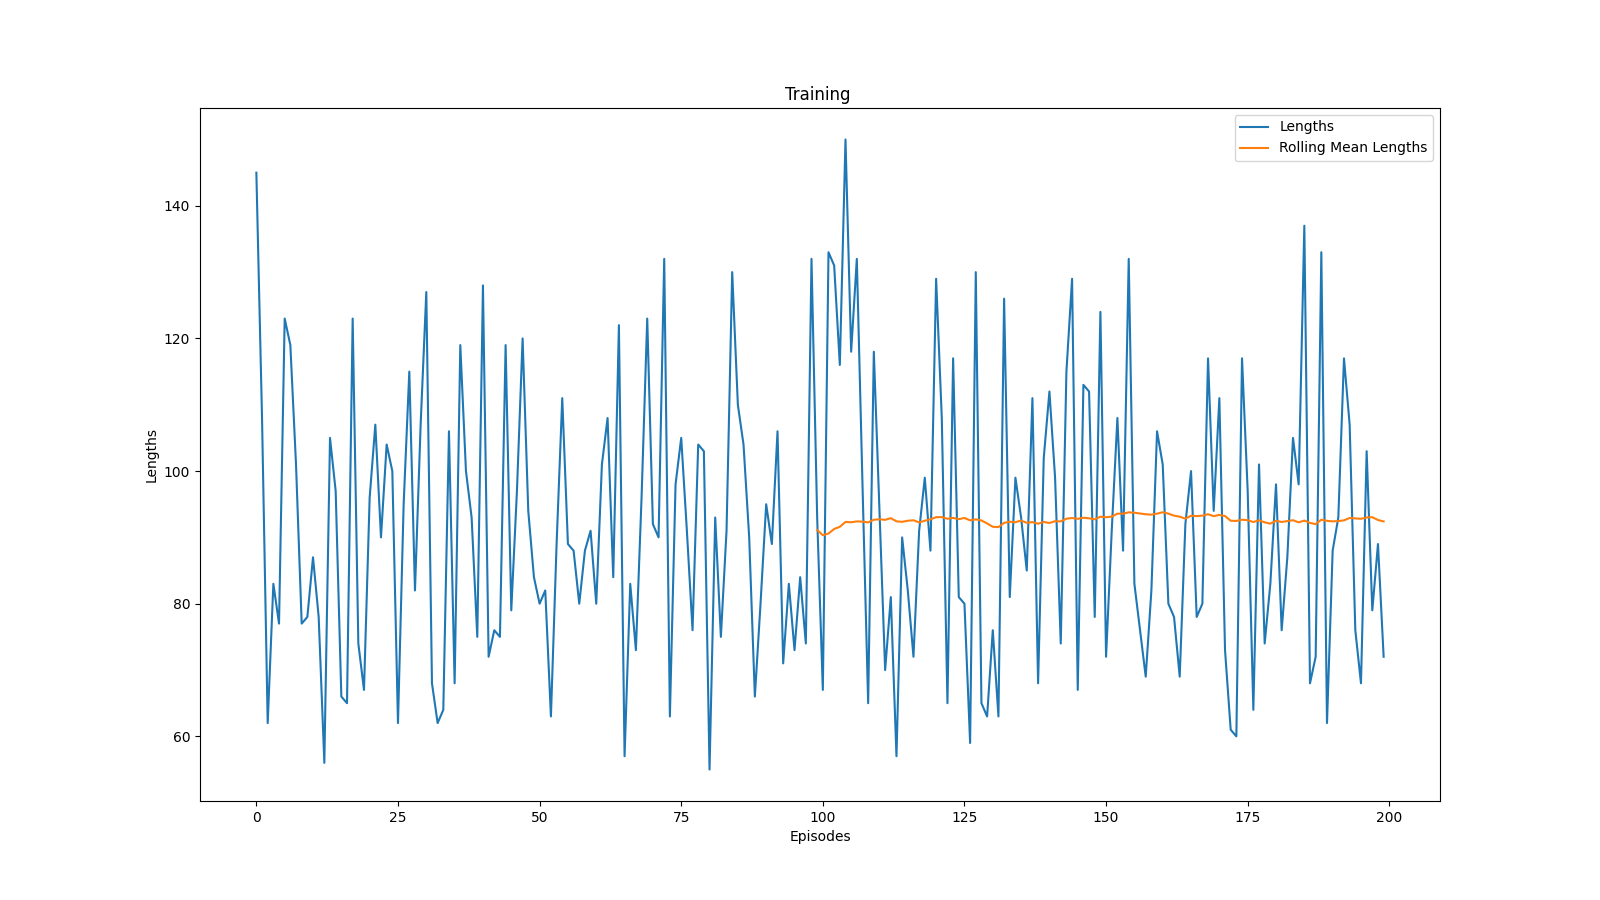
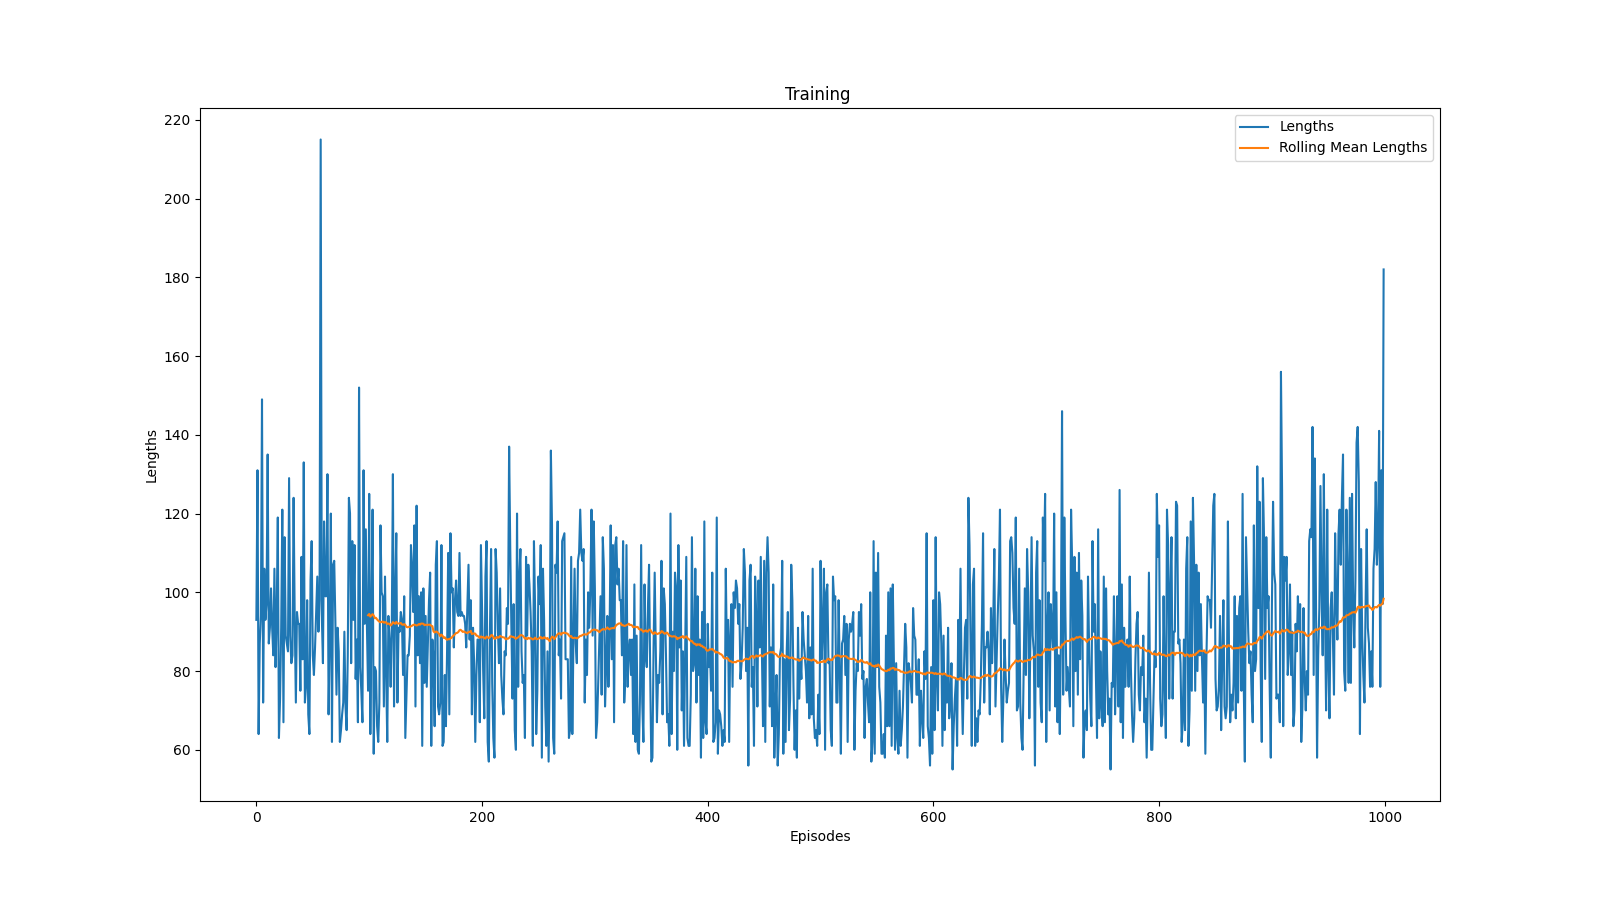
added version requirements + optimized inputs + rewards + lengths fix

diff --git a/src/trainer/reinforce_trainer.py b/src/trainer/reinforce_trainer.py
@@ -1,9 +1,12 @@
-from trainer import Trainer
-from agent import PolicyAgent
-from config import device, checkpoint_path, video_record_period, visualizer_path, update_interval, save_interval
-from tqdm.auto import tqdm
-import torch
 import gymnasium as gym
+import torch
+from tqdm.auto import tqdm
+
+from agent import PolicyAgent
+from config import (device, checkpoint_path,
+                    video_record_period, visualizer_path,
+                    update_interval, save_interval)
+from trainer import Trainer
 
 
 class REINFORCETrainer(Trainer):
@@ -31,9 +34,10 @@ class REINFORCETrainer(Trainer):
 
 
     def train(self):
-        
         returns = torch.empty(0, dtype=torch.float64, device=device)
         log_probs = torch.empty(0, dtype=torch.float64, device=device)
+        total_rewards = []
+        total_lengths = []
         for episode in tqdm(range(self.n_episodes)):
             state, _ = self.env.reset()
             rewards = []
@@ -63,6 +67,8 @@ class REINFORCETrainer(Trainer):
                 returns = torch.empty(0, dtype=torch.float64, device=device)
                 log_probs = torch.empty(0, dtype=torch.float64, device=device)
 
+            total_rewards.append(self.env.return_queue[-1])
+            total_lengths.append(self.env.length_queue[-1])
             if (episode + 1) % self.info_frequency == 0:
                 print(f'Episode {episode}, Total Reward: {sum(rewards):.2f}')
 
@@ -75,7 +81,7 @@ class REINFORCETrainer(Trainer):
 
         last_policy = self.agent.policy.state_dict()
         self.env.close()
-        return last_policy, self.env.return_queue, self.env.length_queue
+        return last_policy, total_rewards, total_lengths
 
 
     def calculate_loss(self, returns, log_probs):

diff --git a/src/trainer/basic.py b/src/trainer/basic.py
@@ -1,8 +1,11 @@
-from agent import Agent
 from abc import ABC, abstractmethod
-from gymnasium.wrappers import RecordEpisodeStatistics, RecordVideo
+
 import gymnasium as gym
+from gymnasium.wrappers import RecordEpisodeStatistics, RecordVideo
+
+from agent import Agent
 from config import visualizer_path, video_record_period
+
 
 class Trainer(ABC):
     def __init__(
@@ -17,7 +20,7 @@ class Trainer(ABC):
         self.agent = agent
         self.env=RecordVideo(env=env, video_folder=video_path + "/video_training",
                              episode_trigger=lambda x: x % record_period == 0)
-        self.env=RecordEpisodeStatistics(self.env, buffer_length=n_episodes)
+        self.env=RecordEpisodeStatistics(self.env)
         self.n_episodes = n_episodes
         self.discount_factor = discount_factor
 

diff --git a/src/visualizer/basic.py b/src/visualizer/basic.py
@@ -1,16 +1,15 @@
-from agent import PolicyAgent
-from evaluator import Evaluator
-from config import device, visualizer_path
-
-import matplotlib.pyplot as plt
-import matplotlib.animation
 import gymnasium as gym
-import torch
+import matplotlib.patheffects as path_effects
+import matplotlib.pyplot as plt
 import numpy as np
 import seaborn as sns
-import matplotlib.patheffects as path_effects
+from gymnasium.wrappers import RecordVideo
+
+from agent import PolicyAgent
 from config import rolling_window
-from gymnasium.wrappers import RecordEpisodeStatistics, RecordVideo
+from config import visualizer_path
+from evaluator import Evaluator
+
 
 def get_moving_avgs(arr, window, convolution_mode):
     return np.convolve(

diff --git a/src/main.py b/src/main.py
@@ -1,14 +1,14 @@
 import gymnasium as gym
 import torch.optim
 
-from policy import FCPolicy
 from agent import PolicyAgent
-from trainer import REINFORCETrainer
-from visualizer import Visualizer
 from config import (device, hidden_size, learning_rate,
                     n_episodes, discount_factor, info_frequency,
                     evaluation_time, visualizer_path,
                     video_record_period, checkpoint_path)
+from policy import FCPolicy
+from trainer import REINFORCETrainer
+from visualizer import Visualizer
 
 if __name__ == "__main__":
     env = gym.make("LunarLander-v3", render_mode="rgb_array")

diff --git a/src/stability_test.py b/src/stability_test.py
@@ -1,16 +1,18 @@
+import os
+
 import gymnasium as gym
 import matplotlib.pyplot as plt
 import seaborn as sns
 import torch.optim
-import os
-from evaluator import Evaluator
-from policy import FCPolicy
+
 from agent import PolicyAgent
-from trainer import REINFORCETrainer
-from visualizer import Visualizer
 from config import (device, hidden_size, learning_rate,
                     discount_factor, info_frequency,
                     evaluation_time)
+from evaluator import Evaluator
+from policy import FCPolicy
+from trainer import REINFORCETrainer
+from visualizer import Visualizer
 
 medians = []
 runs = 2

diff --git a/src/config.py b/src/config.py
@@ -6,10 +6,10 @@ visualizer_path = "../results/img"
 video_record_period=100
 hidden_size = 128
 learning_rate = 0.001
-n_episodes = 200
+n_episodes = 1000
 discount_factor = 0.99
 info_frequency = 100
 rolling_window = 100
 evaluation_time = 20
-update_interval = 1
-save_interval = 10000
+update_interval = 4
+save_interval = 100

diff --git a/src/evaluator/evaluator.py b/src/evaluator/evaluator.py
@@ -1,9 +1,11 @@
 import gymnasium as gym
-from agent import Agent
-from tqdm.auto import tqdm
-import torch
 import numpy as np
+import torch
+from tqdm.auto import tqdm
+
+from agent import Agent
 from config import device
+
 
 class Evaluator:
     def __init__(self,

diff --git a/src/policy/policy.py b/src/policy/policy.py
@@ -1,8 +1,9 @@
-from policy import Policy
-
 import torch.nn as nn
 import torch.nn.functional as F
 from torch.distributions import Categorical
+
+from policy import Policy
+
 
 class FCPolicy(Policy):
     def __init__(self, input_size, hidden_size, output_size):

diff --git a/src/setup.py b/src/setup.py
@@ -1,6 +1,8 @@
 import io
 import re
+
 from setuptools import setup, find_packages
+
 
 def read(file_path):
     with io.open(file_path, 'r', encoding='utf-8') as f:

diff --git a/src/agent/policy_agent.py b/src/agent/policy_agent.py
@@ -1,7 +1,6 @@
-from policy import Policy
-
 from agent import Agent
 from config import device
+from policy import Policy
 
 
 class PolicyAgent(Agent):

diff --git a/src/agent/basic.py b/src/agent/basic.py
@@ -1,4 +1,3 @@
-import gymnasium as gym
 from abc import ABC, abstractmethod
 
 class Agent(ABC):
